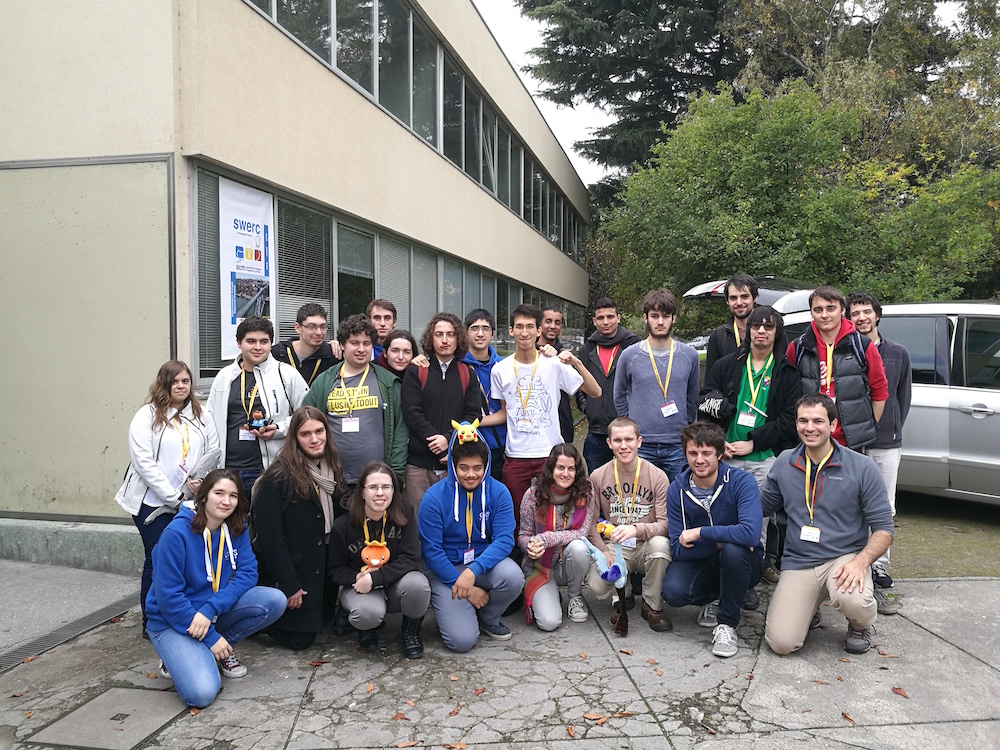
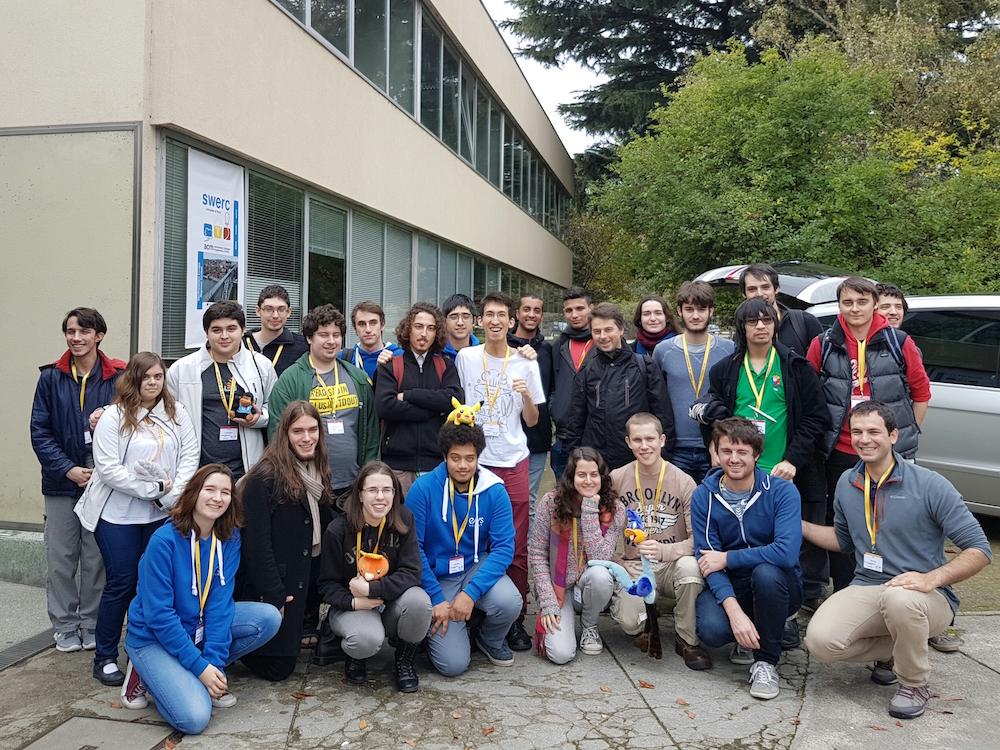
Add SWERC 2016

diff --git a/fr/_posts/2016-11-19-swerc-2016.md b/fr/_posts/2016-11-19-swerc-2016.md
@@ -1,23 +1,71 @@
 ---
 layout: fr
 title: SWERC 2016 à Porto
-author: Clémence Réda
+author: Clémence Réda et Jill-Jênn Vie
 ---
 
-Le saviez-vous ? Du 19 au 20 novembre a lieu l'évènement SWERC à Porto, au Portugal. L'ENS Paris-Saclay (alias feu l'ENS Cachan) a présenté trois équipes à ce concours de programmation :
+<img src="/fr/images/swerc2016/icpc.png" style="float: right" alt="Le logo du concours ACM/ICPC" />
 
-## Les équipes
+Le saviez-vous ? Du 19 au 20 novembre 2016 ont eu lieu les épreuves régionales [SWERC](http://swerc.eu) du [concours de programmation ACM/ICPC](/acm/) à Porto, au Portugal.
 
-- 4chan 4ever : Guillaume Aubian, Clémence Beauseigneur et Noël Nadal
-- CMD Paris-Saclay : Rémi Dupré, Garance Gourdel et Lucas Gréaux
-- Middle-Third : Tito Nguyen, Jérémie Perrin et Clémence Réda
+- **11** problèmes
+- **5** heures
+- **3** personnes et **1** clavier par équipe
 
-## Déroulement
+## Les équipes de l'ENS Paris-Saclay
 
-- Socialisation avec des équipes d'Espagne et d'Israël (rencontre des mascottes respectives)
+- (**4chan 4ever**) Guillaume Aubian, Clémence Beauseigneur et Noël Nadal
+- (**CMD Paris-Saclay**) Rémi Dupré, Garance Gourdel et Lucas Gréaux
+- (**Middle-third**) Tito Nguyen, Jérémie Perrin et Clémence Réda
+
+![Les équipes de l'ENS Paris-Saclay à SWERC 2016](/fr/images/swerc2016/ens-paris-saclay.jpg)
+
+## Résultats
+
+[Retrouvez le palmarès complet de SWERC 2016 sur le site officiel.](http://swerc.up.pt/2016/reports/ranking.html)
+
+- **1** ENS Paris, 9 problèmes résolus sur 11
+- **2** ETH Zurich, 8 problèmes résolus
+- **3** UPC Barcelone, 7 problèmes résolus
+
+Les 3 années précédentes, UPC était première et ETH deuxième. Bravo à l'ENS pour avoir brisé le motif !
+
+![Ulm remporte SWERC 2016](/fr/images/swerc2016/ulm.jpg)
+
+Ils représenteront l'Europe du Sud-Ouest à [la finale du concours ACM](https://icpc.baylor.edu/worldfinals/schedule) le **24 mai 2017 à Rapid City, Dakota du Sud**.
+
+Nos équipes :
+
+- **27** Middle-third, 2 problèmes résolus
+- **45** 4chan 4ever, 2 problèmes résolus
+- **46** CMD Paris-Saclay, 2 problèmes résolus
+
+Le diacritique vietnamien de Lê Thành Dũng Nguyễn a fait planter le système. On aurait dû appeler l'équipe « Special Characters ».
+
+<blockquote class="twitter-tweet" data-lang="fr"><p lang="en" dir="ltr">WHAT THE FUCK <a href="https://t.co/WqrRYSapWq">pic.twitter.com/WqrRYSapWq</a></p>&mdash; Jill-Jênn Vie (@jjvie) <a href="https://twitter.com/jjvie/status/800387854518124544">20 novembre 2016</a></blockquote> <script async src="//platform.twitter.com/widgets.js" charset="utf-8"></script>
+
+## Quelques photos
+
+Nous avons fait rencontrer nos mascottes respectives :
+
+- (**Pikachu**) École normale supérieure de Paris-Saclay, France
+- (**Bip Bip**) Technion, Haïfa, Israël
+- (**Poussifeu**) Université autonome de Madrid, France
 
 ![Porto SWERC 2016](/fr/images/swerc2016/swerc2016.jpg)
 
-- Practice session (de deux heures) en conditions (ou presque) de concours
+Bip Bip et Pikachu s'étaient déjà rencontrés à SWERC 2014, également à Porto :
 
-- Attente pour l'épreuve du 20 novembre (cinq heures)...
+<blockquote class="twitter-tweet" data-lang="fr"><p lang="en" dir="ltr">Looks like Pikachu made a new friend from Israel! <a href="https://twitter.com/hashtag/SWERC?src=hash">#SWERC</a> <a href="https://twitter.com/hashtag/Porto?src=hash">#Porto</a> <a href="https://twitter.com/hashtag/ENSCachan?src=hash">#ENSCachan</a> <a href="http://t.co/woytbarvE4">pic.twitter.com/woytbarvE4</a></p>&mdash; Jill-Jênn Vie (@jjvie) <a href="https://twitter.com/jjvie/status/536117139925913600">22 novembre 2014</a></blockquote> <script async src="//platform.twitter.com/widgets.js" charset="utf-8"></script>
+
+## SWERC 2017 à Télécom ParisTech
+
+L'année prochaine, SWERC 2017 sera organisé à Paris ! Le nouveau directeur est [Antoine Amarilli](https://a3nm.net).
+
+![Paris SWERC 2017](/fr/images/swerc2016/swerc2017.jpg)
+
+Pour changer de registre, les étudiants ont pu finir leur projet compilation dans l'avion.
+
+À l'année prochaine !
+
+![Projet compilation](/fr/images/swerc2016/compil.jpg)
